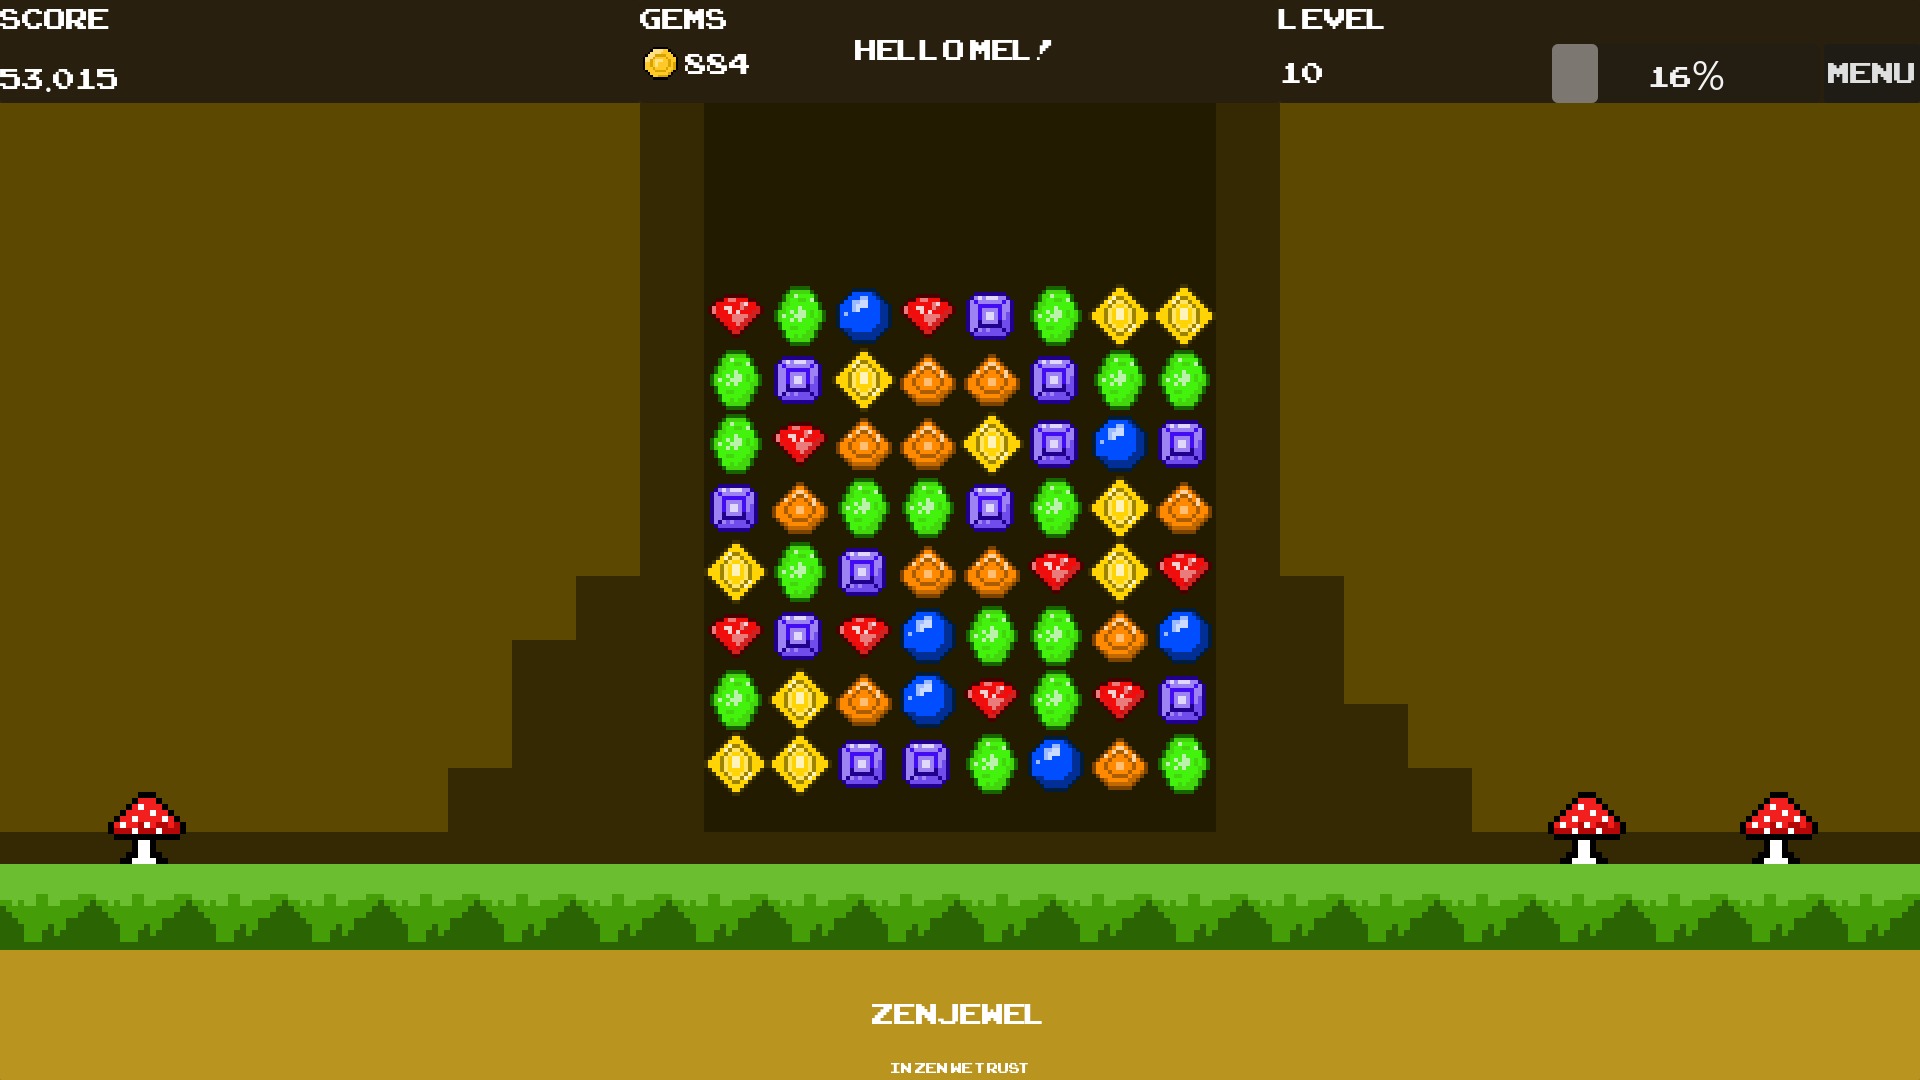
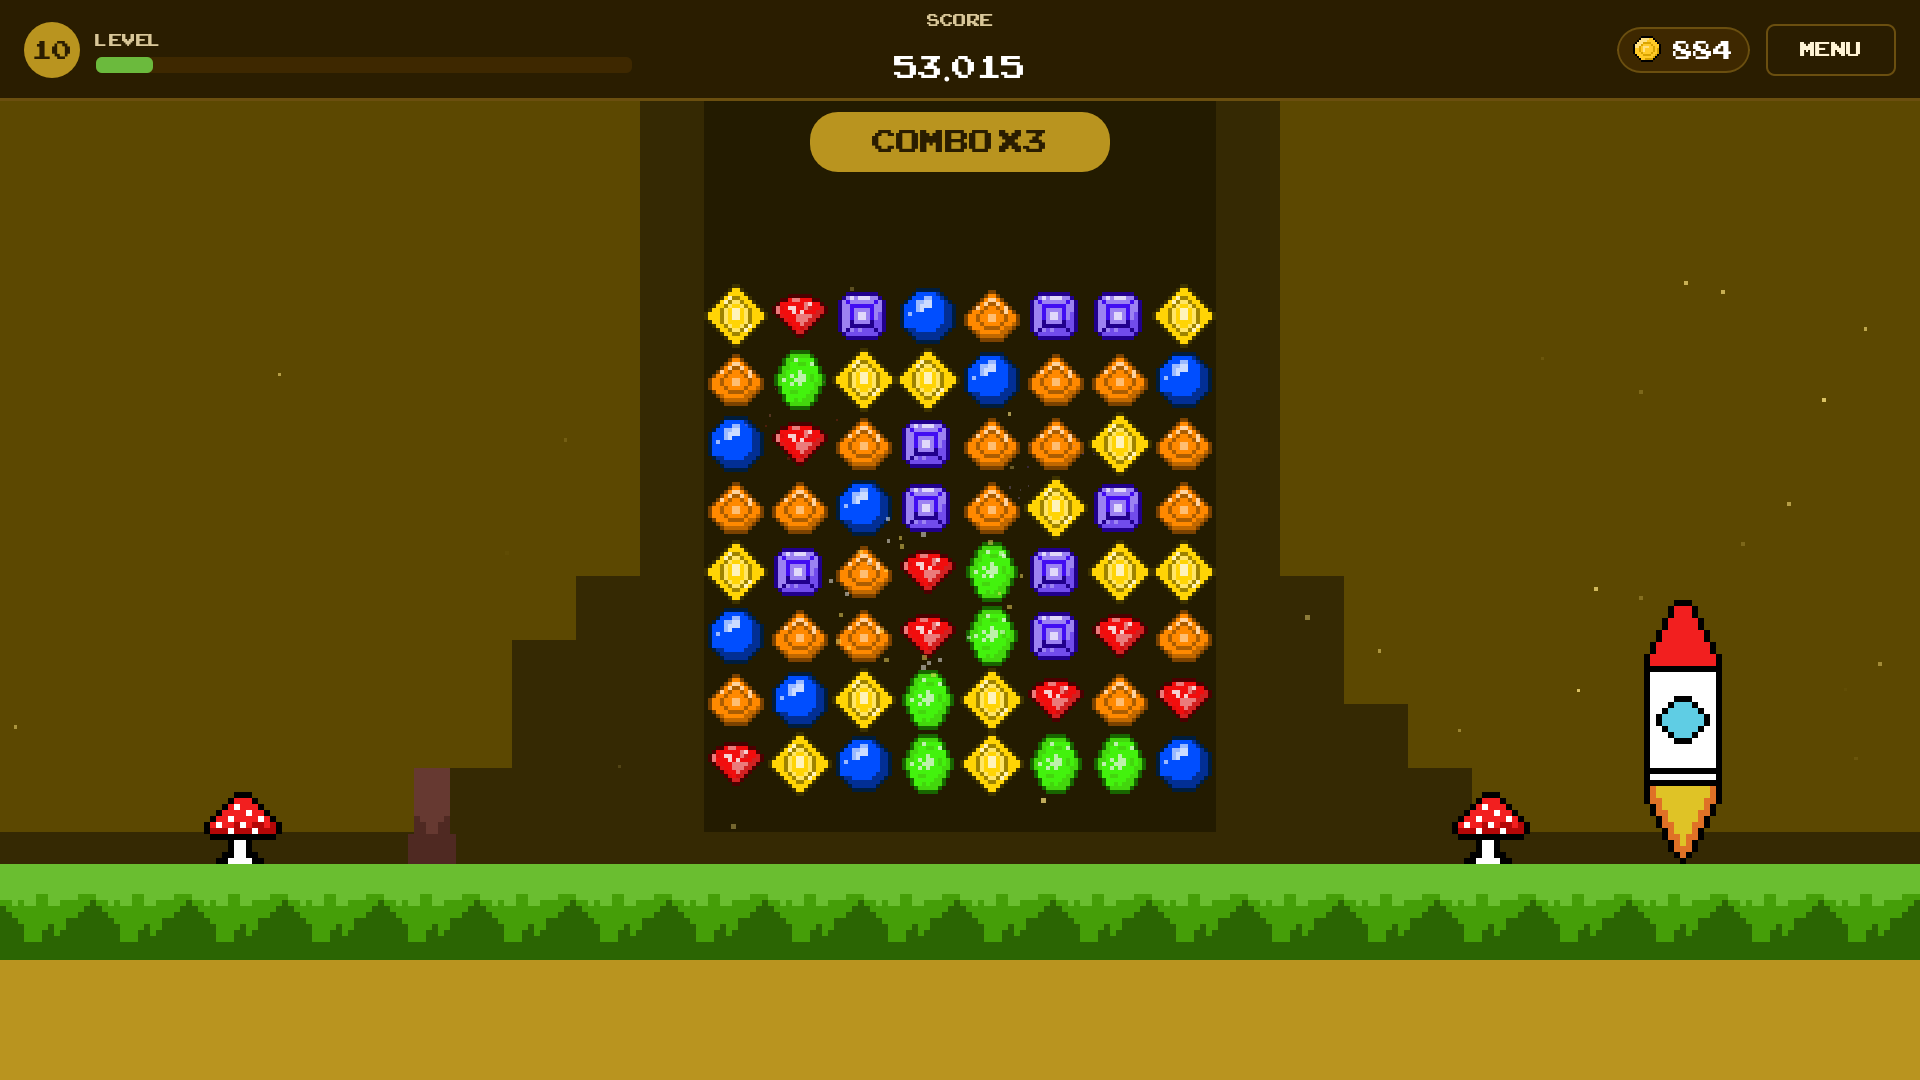
Update README and add new screenshots
Document the new features, controls and structure and add screenshots of the game, menus and shop.

diff --git a/README.md b/README.md
@@ -6,6 +6,7 @@ Just play, match, and collect gems at your own pace.
 <p align="left">
   <img src="https://img.shields.io/badge/Godot-4.x-478CBF?style=for-the-badge&logo=godot-engine&logoColor=white" />
   <img src="https://img.shields.io/badge/GDScript-Script-478CBF?style=for-the-badge" />
+  <img src="https://img.shields.io/badge/Version-0.2-1D9E75?style=for-the-badge" />
   <img src="https://img.shields.io/badge/Status-Work%20In%20Progress-EF9F27?style=for-the-badge" />
   <img src="https://img.shields.io/badge/License-All%20Rights%20Reserved-E24B4A?style=for-the-badge" />
   <img src="https://img.shields.io/badge/Made%20with-Aseprite-7F77DD?style=for-the-badge" />
@@ -18,11 +19,19 @@ Just play, match, and collect gems at your own pace.
 
 ![Game Preview](images/zenjewel_screen.png)
 
+| Start menu | Pause menu |
+| :---: | :---: |
+| ![Start menu](images/screen_menu.png) | ![Pause menu](images/screen_pause.png) |
+
+| Shop |
+| :---: |
+| ![Shop](images/screen_shop.png) |
+
 ## About
 
 ZenJewel is a solo indie project built as a portfolio piece demonstrating full-stack game development: core engine programming, game systems design, pixel art, and original music production.
 
-The design philosophy is **Zen Mode only**. No losing conditions, no time pressure. The player collects score and gems by matching jewels, levels up through score thresholds, and uses gems to unlock cosmetics in the in-game shop.
+The design philosophy is **Zen Mode only**. No losing conditions, no time pressure. The player collects score and gems by matching jewels, levels up through score thresholds, and spends gems on decorations for the meadow in the in-game shop.
 
 > All visual assets and music are currently in development. The screenshots and audio in this README will be updated as production progresses.
 
@@ -34,7 +43,9 @@ The design philosophy is **Zen Mode only**. No losing conditions, no time pressu
 
 - 8×8 match-3 board with cascade combos and gravity
 - Safe board generation (no matches on start)
-- Combo multiplier system
+- Combo multiplier system with an on-screen combo counter
+- Score and gems are based on the length of each matched row (3, 4, 5+)
+- The board reshuffles automatically when no move is left, so you never get stuck
 
 **Special Jewels** created automatically through larger matches
 
@@ -44,21 +55,42 @@ The design philosophy is **Zen Mode only**. No losing conditions, no time pressu
 
 **Progression**
 
-- Level system with scaling score goals (×1.4 per level)
+- Level system with scaling score goals (×1.4 per level), overflow points carry over
 - Gem currency collected through matches
-- Persistent save: score, level, currency and player name
+- Persistent save: score, level, gems, player name, sound setting, owned and placed decorations
+
+**Shop and Decorations**
+
+- Buy decorations with gems (mushroom, tree trunk, rocket, more planned)
+- Place them on the meadow with a click, remove them with a right click
+- Items stay where you put them between sessions
+- All cosmetics are purely visual, no gameplay advantage
+
+**Interface**
+
+- Start menu with continue, optional player name and saved progress
+- HUD with level badge and progress bar, score, gems and a menu button
+- Pause menu (Esc) with resume, shop, sound toggle and main menu
+- Interface text is in English, using the original pixel font
 
 **Visual & Audio** _(in development)_
 
+- Pixel-style particle effects: jewel pops, special bursts, level-up confetti, ambient motes on the meadow, shop sparkles and dust puffs
 - Line flash, bomb burst and jewel highlight effects
 - Original soundtrack produced in FL Studio
 - Original pixel art assets created in Aseprite
 
-**Cosmetics & Shop** _(planned)_
+---
 
-- Board frame, background, ground and decoration customization
-- Alternative jewel skin themes
-- All cosmetics are purely visual, no gameplay advantage
+## Controls
+
+| Action                    | Input                              |
+| ------------------------- | ---------------------------------- |
+| Select and swap jewels    | Left click two neighboring jewels  |
+| Open or close the menu    | `Esc` or the Menu button           |
+| Place a decoration        | Left click on the meadow           |
+| Remove a decoration       | Right click on it (placing mode)   |
+| Leave placing mode        | `Esc` or the Done button           |
 
 ---
 
@@ -79,6 +111,8 @@ The design philosophy is **Zen Mode only**. No losing conditions, no time pressu
 ```
 res://
 ├── assets/
+├── font/
+├── main_menu.gd           Start menu logic
 ├── scene/
 │   ├── main_menu.tscn    Start screen
 │   ├── main.tscn         Main game scene
@@ -87,9 +121,9 @@ res://
 │   ├── jewel_line_h.tscn
 │   ├── jewel_line_v.tscn
 │   ├── jewel_color.tscn
-│   └── ui.tscn           HUD and overlay UI
+│   └── ui.tscn           HUD, pause menu and level-up overlay
 └── script/
-    ├── board.gd           Board coordinator
+    ├── board.gd           Board coordinator, input locks, scoring
     ├── board_effects.gd   Visual effects
     ├── board_gravity.gd   Falling and refill logic
     ├── board_ui_bridge.gd UI and LevelManager connection
@@ -97,9 +131,14 @@ res://
     ├── special_handler.gd Special jewel activation
     ├── special_types.gd   Shared Special enum
     ├── jewel.gd           Jewel data and input
-    ├── level_manager.gd   Score, level, currency (Autoload)
-    ├── ui.gd              Menu overlay logic
-    └── main.gd            Scene root and positioning
+    ├── level_manager.gd   Score, level, gems, cosmetics, settings (Autoload)
+    ├── cosmetics.gd       Catalog of decorations
+    ├── decorations.gd     Placed decorations and placing mode
+    ├── shop.gd            Shop overlay
+    ├── ui.gd              HUD and pause menu logic
+    ├── ui_style.gd        Shared colors and button styles
+    ├── fx.gd              Particle effect helpers
+    └── main.gd            Scene root, decorations and ambient effects
 ```
 
 ---
@@ -110,27 +149,40 @@ ZenJewel uses composition over inheritance. `board.gd` acts as a coordinator and
 
 ```
 board.gd  (coordinator)
-├── match_finder.gd     stateless pure logic, receives grid, returns matches
+├── match_finder.gd     stateless pure logic, receives grid, returns matches and run lengths
 ├── special_handler.gd  activation logic for all 4 special types
-├── board_effects.gd    visual only, ColorRect and Tween effects
+├── board_effects.gd    visual only, particles via fx.gd and Tween effects
 ├── board_gravity.gd    falling animation and refill
 └── board_ui_bridge.gd  connects LevelManager signals to UI labels
 
 LevelManager  (Autoload)
-└── saves and loads score, level, gems, player name to user://save.json
+└── saves and loads score, level, gems, name, sound, owned and placed
+    cosmetics to user://save.json (debounced, written atomically)
+
+Cosmetics     (global class_name)
+└── catalog of decorations: name, price, atlas region, category
+
+Decorations   (created by main.gd)
+└── draws placed items and runs the placing mode
 
 SpecialType   (global class_name)
 └── single source of truth for the Special enum
 ```
+
+Overlays such as the pause menu, the level-up screen and the placing mode lock the board through a counter (`lock_input` / `unlock_input`), so they never interfere with a running cascade.
+
+### Adding a decoration
+
+Add an entry to `CATALOG` in `script/cosmetics.gd` with a name, price, atlas region in `assets/zenjewel_environment.png` and a category. The shop and placing mode pick it up automatically.
 
 ---
 
 ## Planned Features
 
 - Highlights screen (personal bests: highest score, longest combo, biggest match)
-- In-game cosmetics shop with gem currency
-- Modular diorama system for board decoration
-- Skin manager for full visual theme switching
+- More decorations, including items for the sky
+- Alternative jewel skin themes and a skin manager for full visual theme switching
+- Web build
 
 ---
 
